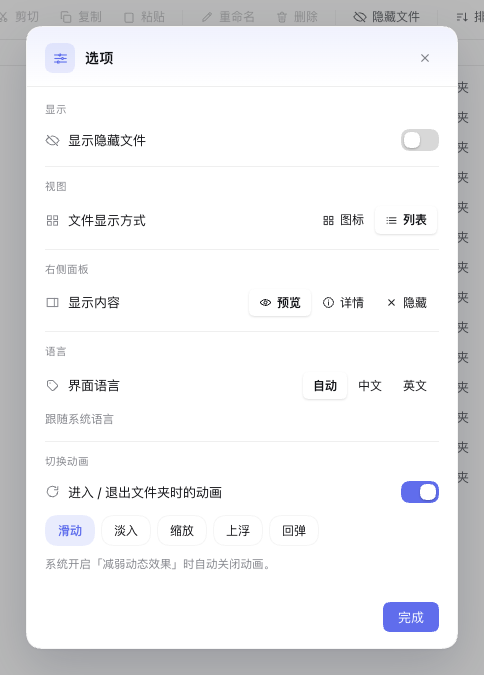
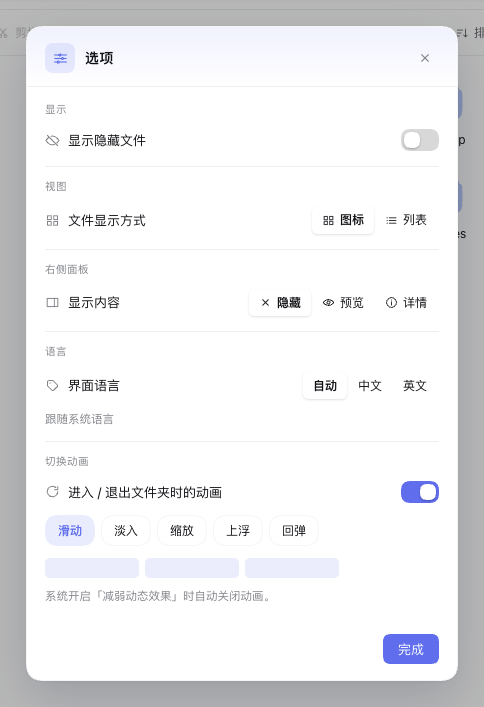
style: 隐藏 leads the right-pane choice
The pane section now lists 隐藏 / 预览 / 详情 with 隐藏 first and preselected,
matching what a fresh panel actually does (the pane opens closed). English
mirrors it as Hidden / Preview / Details.

Also refreshes docs/options.png and docs/options-en.png, which still showed the
old order.

diff --git a/lib/client.js b/lib/client.js
@@ -1403,10 +1403,11 @@ window.__ModuleLoader__.load({
     function OptionsDialog(props) {
       var anim = props.anim || ANIM_DEFAULT;
       var paneCurrent = props.paneVisible ? props.paneMode : "hidden";
+      // 隐藏 leads, matching the default: the pane starts closed.
       var paneChoices = [
+        { id: "hidden", label: t("隐藏"), icon: "close" },
         { id: "preview", label: t("预览"), icon: "eye" },
         { id: "info", label: t("详情"), icon: "info" },
-        { id: "hidden", label: t("隐藏"), icon: "close" },
       ];
       return h("div", {
         className: "dfx-overlay",

diff --git a/README.en.md b/README.en.md
@@ -62,7 +62,7 @@ Then just ask: "which months overspent in this spreadsheet?" or "summarise the c
 - **About** — 更多 → 关于 opens an About window with a tinted header (app icon, name, version pill) over three rows — author, version with build date, and the repository as a clickable link — plus a copyright line carrying the licence, all read from `package.json` so it cannot drift from the release.
 - **Preview** — text files up to 512 KB render as monospace text, images up to 8 MB render inline from a data URL, anything else shows its metadata. The pane **starts collapsed** — the panel opens in the icons view with no right pane, so the listing uses the full width. The preview icon at the far right of the toolbar collapses or restores the right-hand pane; collapsed, the list takes the full width.
 - **Details pane** — right-click "显示详情", or flip the right pane to 详情, to see name, type, size, location, created, modified and permissions. Folders have no preview, so selecting one shows its details (size reads as an item count).
-- **Quick toolbar** — **新建** (new folder / new file) first, then cut, copy, paste, rename and delete, then **排序** (name / size / modified) and **更多** (undo, select all, deselect all, invert selection, options, about) on the right. 选项 opens a settings window (not a submenu) with four sections: 显示 (hidden files switch), 视图 (图标 / 列表 segmented control), 右侧面板 (预览 / 详情 / 隐藏) and 切换动画 (a master switch plus the effect picker) — all of it mirrors the toolbar's own toggles. Everything there matches the toolbar's own icon group, so either can drive it, and **every setting is remembered** — hidden files, view, the right pane's visibility and mode, language and the transition effect all live in the browser, so closing the panel or reloading the page keeps them. A small sample strip under the effect pills replays the chosen animation as soon as you pick it. Buttons grey out when nothing is selected.
+- **Quick toolbar** — **新建** (new folder / new file) first, then cut, copy, paste, rename and delete, then **排序** (name / size / modified) and **更多** (undo, select all, deselect all, invert selection, options, about) on the right. 选项 opens a settings window (not a submenu) with four sections: 显示 (hidden files switch), 视图 (图标 / 列表 segmented control), 右侧面板 (隐藏 / 预览 / 详情, with 隐藏 as the default) and 切换动画 (a master switch plus the effect picker) — all of it mirrors the toolbar's own toggles. Everything there matches the toolbar's own icon group, so either can drive it, and **every setting is remembered** — hidden files, view, the right pane's visibility and mode, language and the transition effect all live in the browser, so closing the panel or reloading the page keeps them. A small sample strip under the effect pills replays the chosen animation as soon as you pick it. Buttons grey out when nothing is selected.
 - **Multi-select** — `⌘`-click to add or drop single rows, `⇧`-click to select a range; cut, copy and delete act on the whole selection.
 - **Undo** — delete, rename, move and create can all be undone (the last 20 steps), and the listing refreshes afterwards.
 - **Context menu** — right-click a file or folder, or the empty area, for the common operations (see below).

diff --git a/README.md b/README.md
@@ -62,7 +62,7 @@
 - **详情面板**：右键「显示详情」，或在右侧面板切到「详情」，查看 **名称 / 类型 / 大小 / 位置 / 创建时间 / 修改时间 / 权限**；文件夹没有预览，选中即自动显示详情（大小位置显示条目数）。
 - **快捷工具栏**：**新建**（文件夹 / 文件）、剪切、复制、粘贴、重命名、删除，然后是 **排序**（名称 / 大小 / 修改时间）与 **更多**（撤销、全部选择、全部取消、反向选择、选项、关于）。未选中条目时相关按钮自动置灰。
 
-- **选项窗口**：**更多 → 选项** 打开一个设置窗口（不再是小弹层），里面分四段：**显示**（显示隐藏文件开关）、**视图**（图标 / 列表 分段控件）、**右侧面板**（预览 / 详情 / 隐藏）、**切换动画**（总开关 + 效果选择）。开关和分段控件与工具栏右侧的图标组等价，改哪边都同步。**这些设置都会被记住**（隐藏文件、视图、右侧面板的开关与模式、语言、动画效果全部存在浏览器里），关掉面板再打开、刷新页面都还是你上次的状态；动画区下方有一条小样片，点任意效果它会当场演一遍。
+- **选项窗口**：**更多 → 选项** 打开一个设置窗口（不再是小弹层），里面分四段：**显示**（显示隐藏文件开关）、**视图**（图标 / 列表 分段控件）、**右侧面板**（隐藏 / 预览 / 详情，默认「隐藏」）、**切换动画**（总开关 + 效果选择）。开关和分段控件与工具栏右侧的图标组等价，改哪边都同步。**这些设置都会被记住**（隐藏文件、视图、右侧面板的开关与模式、语言、动画效果全部存在浏览器里），关掉面板再打开、刷新页面都还是你上次的状态；动画区下方有一条小样片，点任意效果它会当场演一遍。
 
 ![选项窗口](docs/options.png)
 
